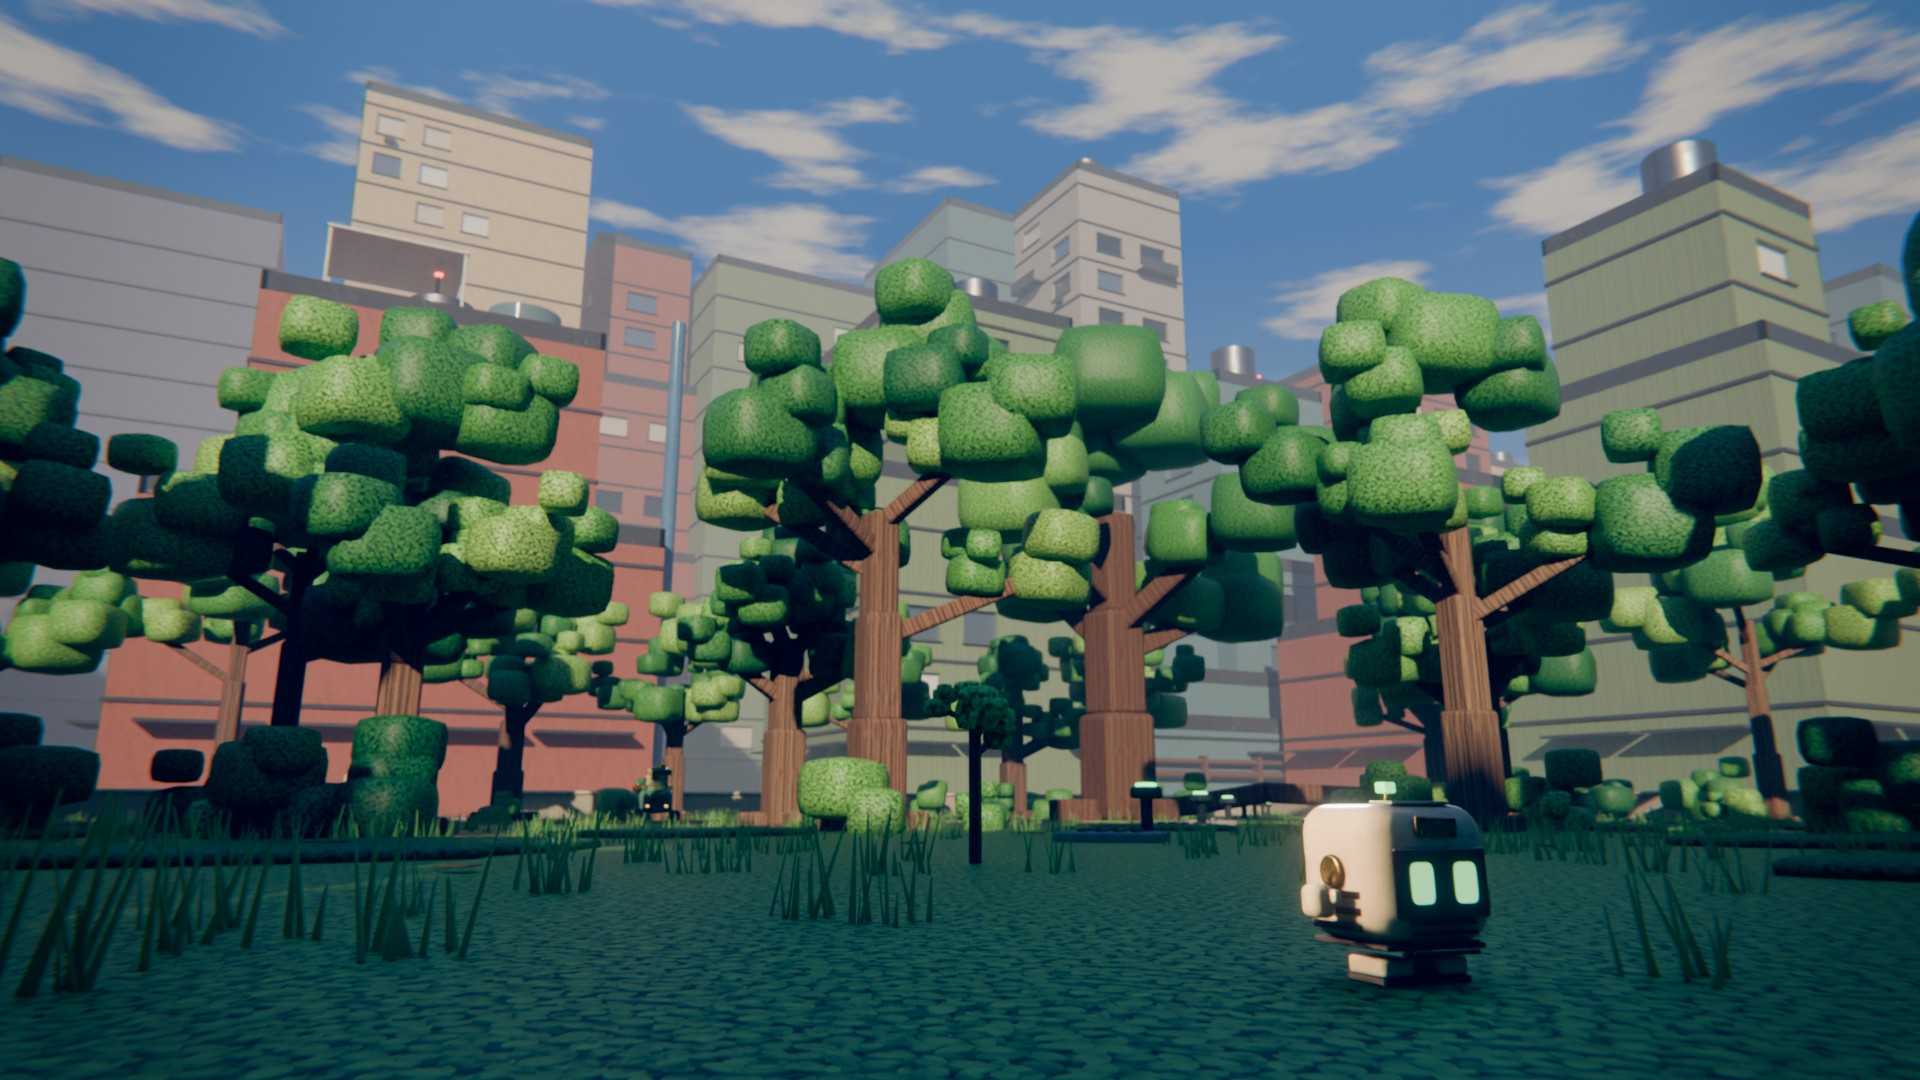
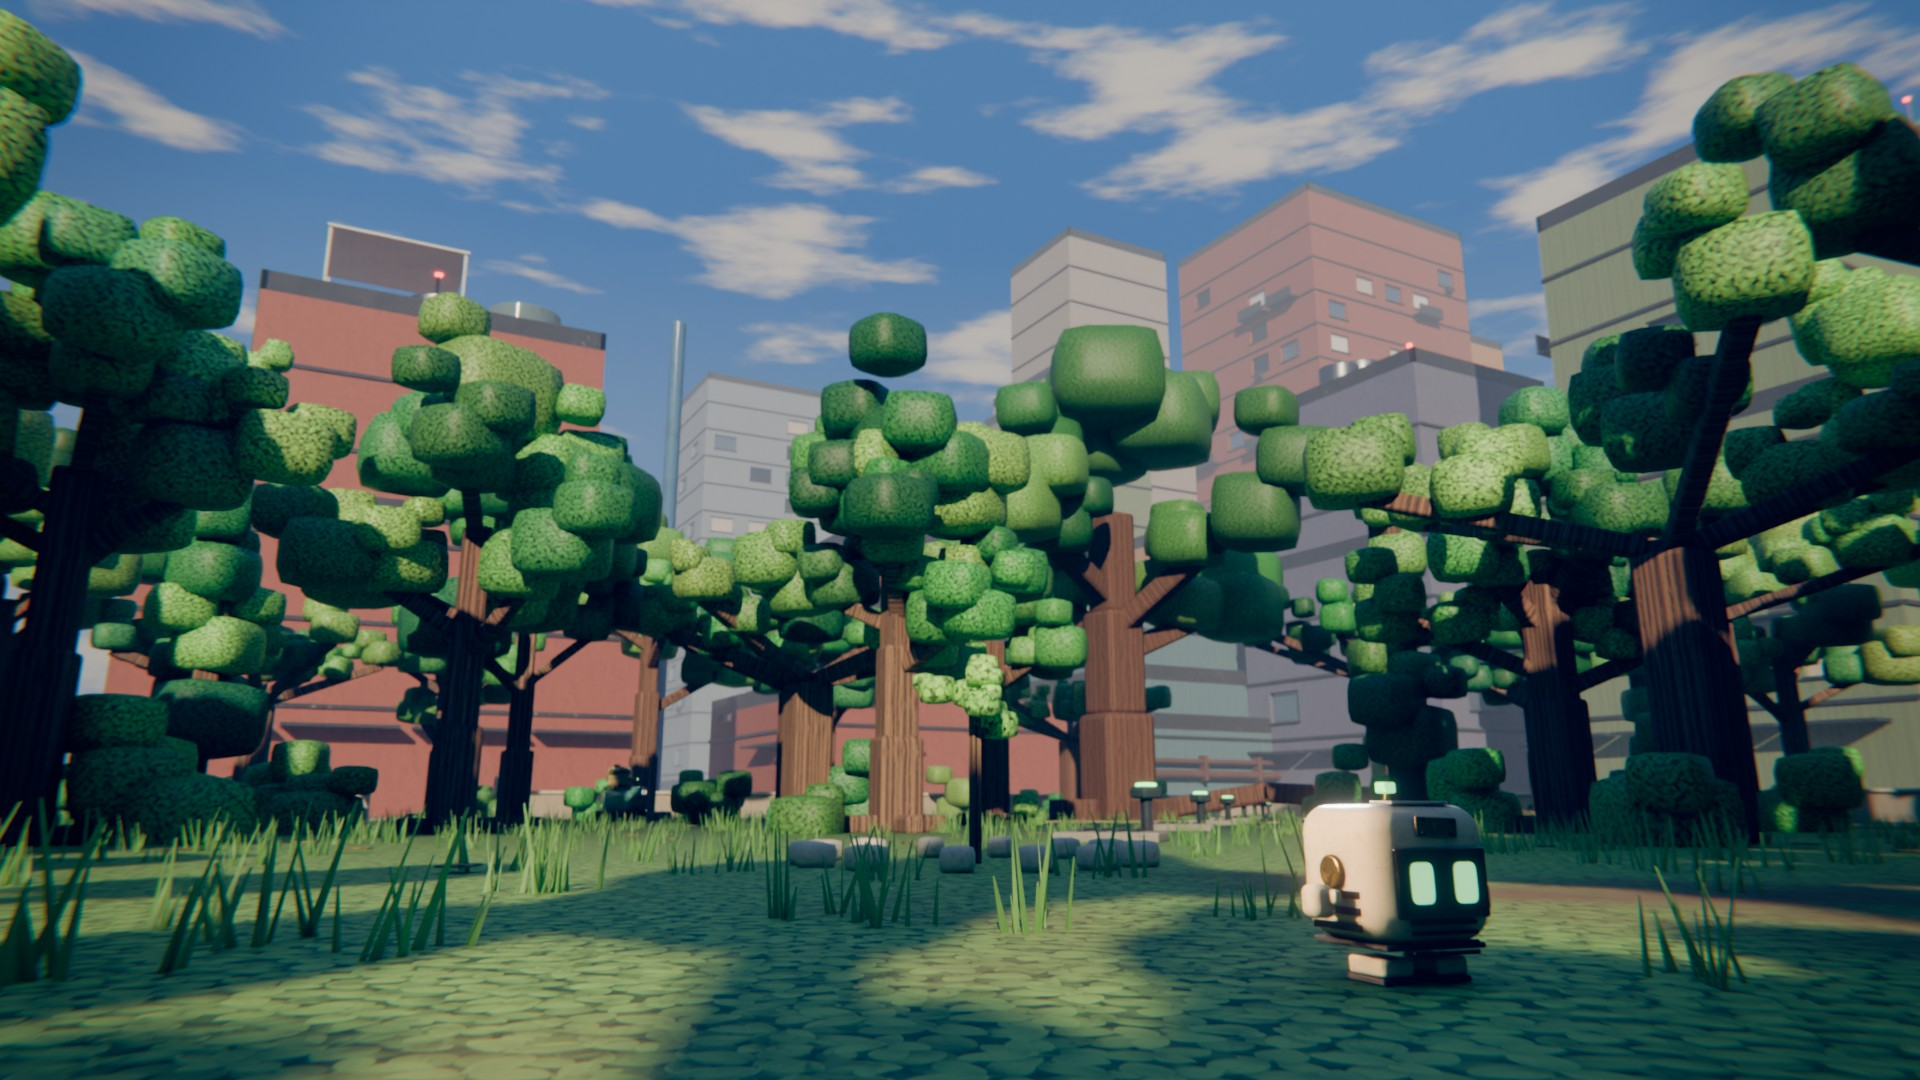
Old Grove polish: turf, tree shapes, sapling ring, crew pipe, S26 sunrise frame

diff --git a/blender/plants.py b/blender/plants.py
@@ -88,6 +88,10 @@ def leaf_mat(shade, ctrl):
     mid = cr.elements.new(0.35)
     mid.color = materials.hex_rgb(DRY)
     base = texmat._mul(g, ramp.outputs["Color"], det)
+    rnd_o = g.node("ShaderNodeObjectInfo").outputs["Random"]
+    base = texmat._mul(g, base, g.math("ADD", 0.82, g.math("MULTIPLY", rnd_o, 0.36)))
+    hsv = g.node("ShaderNodeHueSaturation", Color=base, Hue=g.math("ADD", 0.48, g.math("MULTIPLY", rnd_o, 0.05)))
+    base = hsv.outputs["Color"]
     g.set(bsdf.inputs["Base Color"], base)
     g.set(bsdf.inputs["Roughness"], g.math("ADD", 0.45, g.math("MULTIPLY", g.math("SUBTRACT", 1.0, w), 0.35)))
     bsdf.inputs["Subsurface Weight"].default_value = 0.25
@@ -96,6 +100,38 @@ def leaf_mat(shade, ctrl):
     bsdf.inputs["Coat Weight"].default_value = 0.0
     nm = g.node("ShaderNodeNormalMap", Color=texmat._img(g, "leaves", "normal", co, True).outputs["Color"],
                 Strength=0.8)
+    g.set(bsdf.inputs["Normal"], nm.outputs[0])
+    return world._haze(m)
+
+
+def turf_mat(ctrl, shade="#86ad56", soil="#8a7350"):
+    """Ground: clover-like ground cover with bare soil patches; dries to straw and dust with the water."""
+    name = f"p_turf_{ctrl.name}"
+    if name in bpy.data.materials:
+        return bpy.data.materials[name]
+    m = bpy.data.materials.new(name)
+    m.use_nodes = True
+    g = materials.G(m)
+    bsdf = next(n for n in g.n if n.type == "BSDF_PRINCIPLED")
+    co = texmat._uv(g, 1.4)
+    col = texmat._img(g, "leaves", "color", co).outputs["Color"]
+    det = texmat._detail(g, col, "leaves", 1.6)
+    w = _water_node(g, ctrl)
+    ramp = g.node("ShaderNodeValToRGB", Fac=w)
+    cr = ramp.color_ramp
+    cr.elements[0].position, cr.elements[0].color = 0.0, materials.hex_rgb("#a08a58")
+    cr.elements[1].position, cr.elements[1].color = 0.75, materials.hex_rgb(shade)
+    green = texmat._mul(g, ramp.outputs["Color"], det)
+    pos = g.node("ShaderNodeTexCoord").outputs["Object"]
+    nz = g.node("ShaderNodeTexNoise", Vector=pos, Scale=0.09, Detail=5.0, Roughness=0.6).outputs["Fac"]
+    patch = g.ramp(nz, 0.56, 0.66)
+    sco = texmat._uv(g, 2.0, (3.1, 7.7))
+    scol = texmat._img(g, "concrete", "color", sco).outputs["Color"]
+    dirt = texmat._mul(g, materials.hex_rgb(soil), texmat._detail(g, scol, "concrete", 3.0))
+    g.set(bsdf.inputs["Base Color"], g.mix(patch, green, dirt))
+    g.set(bsdf.inputs["Roughness"], g.mixf(patch, 0.6, 0.92))
+    nm = g.node("ShaderNodeNormalMap", Color=texmat._img(g, "leaves", "normal", co, True).outputs["Color"],
+                Strength=0.5)
     g.set(bsdf.inputs["Normal"], nm.outputs[0])
     return world._haze(m)
 
@@ -256,6 +292,45 @@ def grass_mat(ctrl):
     return world._haze(m)
 
 
+def column(coll, rnd, x, y, ctrl, height=9.0, girth=0.4, bark="#7a5a42", shades=None):
+    """A tall narrow tree: short trunk, clusters stacked up a central stem, getting smaller toward the top."""
+    shades = shades or GREENS
+    bm = bark_mat(bark)
+    _box(coll, "trunk", (girth, girth, height * 0.85), (x, y, height * 0.425), bm, girth * 0.12)
+    n = 6
+    for k in range(n):
+        t = k / (n - 1)
+        z = height * (0.22 + 0.7 * t)
+        size = height * 0.2 * (1.0 - 0.55 * t)
+        a = rnd.uniform(0, 6.28)
+        _cluster(coll, rnd, ctrl, (x + math.cos(a) * 0.15, y + math.sin(a) * 0.15, z), size,
+                 (math.cos(a) * 0.3, math.sin(a) * 0.3), 0.3 + 0.7 * t, rnd.choice(shades))
+    return height
+
+
+def wide(coll, rnd, x, y, ctrl, height=7.0, girth=0.6, bark="#6e5444", shades=None):
+    """An umbrella tree: a trunk that forks into long low branches, a broad flat crown of clusters."""
+    shades = shades or GREENS
+    bm = bark_mat(bark)
+    th = height * 0.45
+    _box(coll, "trunk", (girth, girth, th), (x, y, th / 2), bm, girth * 0.12)
+    nb = rnd.randint(5, 7)
+    for b in range(nb):
+        ang = b * math.tau / nb + rnd.uniform(-0.25, 0.25)
+        L = height * rnd.uniform(0.45, 0.6)
+        lift = rnd.uniform(0.25, 0.42)
+        dx, dy, dz = math.cos(ang) * math.cos(lift), math.sin(ang) * math.cos(lift), math.sin(lift)
+        bw = girth * 0.34
+        br = _box(coll, "branch", (L, bw, bw), (x + dx * L / 2, y + dy * L / 2, th + dz * L / 2), bm, bw * 0.15)
+        br.rotation_euler = (0, -lift, ang)
+        for f, k in ((1.0, 1.0), (0.6, 0.85)):
+            tip = (x + dx * L * f, y + dy * L * f, th + dz * L * f + height * 0.06)
+            _cluster(coll, rnd, ctrl, tip, height * 0.17 * k, (dx, dy), min(1.0, tip[2] / height),
+                     rnd.choice(shades))
+    _cluster(coll, rnd, ctrl, (x, y, th + height * 0.22), height * 0.22, (0.0, 0.0), 1.0, rnd.choice(shades))
+    return height
+
+
 def tree(coll, rnd, x, y, ctrl, height=9.0, girth=0.55, bark="#7a5a42", shades=None):
     """A box-trunk tree: a tapering trunk, 4-6 angled branches with clusters at the tip and along the way, and a
     full crown on top. Returns the crown height."""
@@ -332,9 +407,16 @@ def grass(coll, rnd, ctrl, points, blades=14, name="grass"):
     return ob
 
 
-def sapling(coll, rnd, x, y, ctrl, height=1.1):
-    """The small tree at the centre of the Grove: roughly Tiny's equal (Tiny is 0.35 m, the sapling about 1 m)."""
+def sapling(coll, rnd, x, y, ctrl, height=1.25):
+    """The small tree at the centre of the Grove: roughly Tiny's equal (Tiny is 0.35 m, the sapling about 1.2 m),
+    in a ring of pale stones so it reads as somebody's."""
     bm = bark_mat("#8a6a4c")
+    stone = world.tex_mat("sapling_stone", "concrete", "#d8d0bc", tile=0.6, rough=0.8)
+    ring = []
+    for k in range(14):
+        a = k * math.tau / 14 + rnd.uniform(-0.08, 0.08)
+        ring.append(((math.cos(a) * 0.95, math.sin(a) * 0.95, 0.06), (0.22, 0.17, 0.13), a + rnd.uniform(-0.3, 0.3)))
+    _merged("sapling_stones", coll, stone, ring, (x, y, 0.0))
     _box(coll, "sapling_stem", (0.06, 0.06, height * 0.75), (x, y, height * 0.375), bm, 0.01)
     for k, (ang, z) in enumerate(((0.4, 0.55), (2.6, 0.7), (4.4, 0.62))):
         L = 0.22
@@ -342,8 +424,8 @@ def sapling(coll, rnd, x, y, ctrl, height=1.1):
                   (x + math.cos(ang) * L / 2, y + math.sin(ang) * L / 2, height * z + 0.06), bm, 0.006)
         br.rotation_euler = (0, -0.5, ang)
         tip = (x + math.cos(ang) * L, y + math.sin(ang) * L, height * z + 0.12)
-        _cluster(coll, rnd, ctrl, tip, 0.2, (math.cos(ang), math.sin(ang)), 0.5, "#6fb84e")
-    _cluster(coll, rnd, ctrl, (x, y, height * 0.78), 0.26, (0.0, 0.0), 0.8, "#7cc456")
+        _cluster(coll, rnd, ctrl, tip, 0.22, (math.cos(ang), math.sin(ang)), 0.5, "#8fd45e")
+    _cluster(coll, rnd, ctrl, (x, y, height * 0.78), 0.3, (0.0, 0.0), 0.8, "#9ade62")
 
 
 def weed(coll, rnd, x, y, ctrl):

diff --git a/blender/grove.py b/blender/grove.py
@@ -37,7 +37,7 @@ def _on_line(x, y, pad):
 
 def _ground(coll, rnd, ctrl):
     # soil and moss over the whole clearing, a leafy ground cover in patches, the worn loop path
-    turf = plants.leaf_mat("#6a9a48", ctrl)
+    turf = plants.turf_mat(ctrl)
     moss = plants.leaf_mat("#3f7232", ctrl)
     path = world.tex_mat("loop_path", "concrete", "#a08c6a", tile=2.0, rough=0.95, bump=0.3)
     world.box(coll, "grove_turf", (2 * HALF, 2 * HALF, 0.2), (0, 0, -0.1), turf, 0)
@@ -50,7 +50,7 @@ def _ground(coll, rnd, ctrl):
             continue
         s = rnd.uniform(1.2, 3.2)
         cover.append(((x, y, 0.03), (s, s * rnd.uniform(0.6, 1.0), 0.12), rnd.uniform(0, 1.6)))
-    plants._merged("groundcover", coll, moss, cover, (0, 0, 0))
+    # (flat ground-cover slabs read as puddles from low angles; the turf's soil patches do this job now)
     # the loop: segments of a worn ring, slightly sunk
     n = 72
     for k in range(n):
@@ -111,6 +111,31 @@ def _water_line(coll, ctrl):
         world.box(coll, "gauge_lamp", (0.16, 0.16, 0.05), (x + 0.42, y, 0.53), gauge, 0.02)
 
 
+def _crew_pipe(coll):
+    """The pipe the crew lays in S21-S24: on short supports along the water line from the north-east gate to the
+    sapling, with the bend that rises over the great root instead of cutting it."""
+    pm = world.mat("crew_pipe", "painted_metal", "#4f7fa8", wear=0.45, dirt=0.6, tile=1.0)
+    sup = world.mat("pipe_support", "painted_metal", "#3c4248", wear=0.5, dirt=0.7, tile=1.0)
+    d = 1 / math.sqrt(2)
+    # (distance along the line from the gate, height): the line meets the root about 18 m from the gate
+    prof = [(-3.0, 0.35), (16.0, 0.35), (17.6, 1.25), (20.4, 1.25), (22.0, 0.35), (40.8, 0.35)]
+    ax, ay = PIPE_LINE[0]
+    for (s0, z0), (s1, z1) in zip(prof, prof[1:]):
+        x0, y0 = ax - s0 * d, ay - s0 * d
+        x1, y1 = ax - s1 * d, ay - s1 * d
+        L = math.dist((x0, y0, z0), (x1, y1, z1))
+        seg = world.box(coll, "crew_pipe", (L + 0.12, 0.34, 0.34), ((x0 + x1) / 2, (y0 + y1) / 2, (z0 + z1) / 2),
+                        pm, 0.05, shape="cylinder_x")
+        seg.rotation_euler = (0, -math.atan2(z1 - z0, math.hypot(x1 - x0, y1 - y0)), math.atan2(y1 - y0, x1 - x0))
+        world.box(coll, "pipe_collar", (0.18, 0.44, 0.44), (x1, y1, z1), sup, 0.03, shape="cylinder_x",
+                  rot=math.atan2(y1 - y0, x1 - x0))
+    for s_ in range(0, 41, 3):
+        if 15.5 < s_ < 22.5:
+            continue
+        x, y = ax - s_ * d, ay - s_ * d
+        world.box(coll, "pipe_support", (0.5, 0.12, 0.2), (x, y, 0.1), sup, 0.02, rot=math.pi / 4)
+
+
 def _great_tree(coll, rnd, ctrl):
     """The great old tree on the north-east side; one big root arches across the water line."""
     gx, gy = GREAT_TREE
@@ -127,7 +152,7 @@ def _great_tree(coll, rnd, ctrl):
                             math.atan2(b[1] - a[1], b[0] - a[0]))
 
 
-def _trees(coll, rnd, ctrl):
+def _trees(coll, rnd, ctrl, clear=()):
     spots = []
 
     def free(x, y, r):
@@ -141,6 +166,8 @@ def _trees(coll, rnd, ctrl):
             return False
         if max(abs(x), abs(y)) > HALF - 1.8 - r:
             return False
+        if any(math.hypot(x - cx, y - cy) < cr + r * 0.6 for (cx, cy, cr) in clear):
+            return False
         return all(math.hypot(x - sx, y - sy) > (r + sr) * 0.8 + 1.0 for (sx, sy, sr) in spots)
 
     tries = 0
@@ -151,8 +178,14 @@ def _trees(coll, rnd, ctrl):
         r = h * 0.28
         if free(x, y, r):
             spots.append((x, y, r))
-            plants.tree(coll, rnd, x, y, ctrl, height=h, girth=rnd.uniform(0.45, 0.75),
-                        bark=rnd.choice(["#7a5a42", "#6e5444", "#82654a"]))
+            kind = rnd.random()
+            bark = rnd.choice(["#7a5a42", "#6e5444", "#82654a"])
+            if kind < 0.18:
+                plants.column(coll, rnd, x, y, ctrl, height=h * 1.1, girth=rnd.uniform(0.35, 0.5), bark=bark)
+            elif kind < 0.36:
+                plants.wide(coll, rnd, x, y, ctrl, height=h * 0.8, girth=rnd.uniform(0.5, 0.75), bark=bark)
+            else:
+                plants.tree(coll, rnd, x, y, ctrl, height=h, girth=rnd.uniform(0.45, 0.75), bark=bark)
     return spots
 
 
@@ -173,7 +206,7 @@ def _undergrowth(coll, rnd, ctrl, spots):
     pts = []
     while len(pts) < 2600:
         x, y = rnd.uniform(-HALF + 0.6, HALF - 0.6), rnd.uniform(-HALF + 0.6, HALF - 0.6)
-        if abs(math.hypot(x, y) - LOOP_R) < 1.1 or _on_line(x, y, 0.7):
+        if abs(math.hypot(x, y) - LOOP_R) < 1.1 or _on_line(x, y, 0.7) or math.hypot(x, y) < 1.15:
             continue
         pts.append((x, y, rnd.uniform(0.7, 1.4)))
     plants.grass(coll, rnd, ctrl, pts, blades=10)
@@ -267,7 +300,7 @@ def _city(coll, rnd):
         world.box(coll, "barrier", (0.5, 2.6, 1.0), (x_end - 0.8, py + 0.5, 3.3), barrier, 0.05)
 
 
-def build(sc, tod="morning", water=1.0, seed=11, city=True):
+def build(sc, tod="morning", water=1.0, seed=11, city=True, pipe=False, clear=()):
     world.CFG = world.TOD[tod]
     world.HAZE = world.CFG["haze"]
     rnd = random.Random(seed)
@@ -279,7 +312,9 @@ def build(sc, tod="morning", water=1.0, seed=11, city=True):
     _wall(coll)
     _water_line(coll, ctrl)
     _great_tree(coll, rnd, ctrl)
-    spots = _trees(coll, rnd, ctrl)
+    if pipe:
+        _crew_pipe(coll)
+    spots = _trees(coll, rnd, ctrl, clear)
     plants.sapling(coll, rnd, SAPLING[0], SAPLING[1], ctrl)
     _undergrowth(coll, rnd, ctrl, spots)
     if city:

diff --git a/blender/setshot.py b/blender/setshot.py
@@ -41,20 +41,28 @@ OUT.mkdir(parents=True, exist_ok=True)
 RES = tuple(int(v) for v in opts.get("res", "1920x1080").split("x"))
 SAMPLES = int(opts.get("samples", 64))
 
-# camera: (location, target, lens mm, f-stop or None); robots: (id, x, y, yaw toward "cam" + offset deg, or deg)
+# camera: (location, target, lens mm, f-stop or None)
+# robots: (id, x, y, yaw) with yaw = degrees, or ("cam", offset) to face the camera then turn by the offset;
+#         x = "loop" puts the robot on Mossback's loop at the first angle (from y degrees, stepping 6) where the
+#         camera can see it
+# clear: (x, y, r) spots kept free of trees, so a camera or a staging spot is not inside a trunk
 SHOTS = {
     # S02 "Mossback's Loop": low at Tiny's height, trees towering like friendly giants, the sapling Tiny's equal
-    "grove_s02_morning": dict(set="grove", tod="morning", water=0.85, haze=0.0015,
-                              cam=((-3.4, -6.0, 0.3), (1.0, 2.0, 2.4), 22, 4.0),
-                              robots=[("tiny", -1.6, -4.4, ("cam", 40)), ("mossback", 3.8, 21.7, 170)]),
+    "grove_s02_morning": dict(set="grove", tod="morning", water=0.85, haze=0.0012,
+                              cam=((-3.4, -6.0, 0.3), (1.0, 2.0, 2.4), 22, 4.0), clear=[(-3.4, -6.0, 3.0)],
+                              robots=[("tiny", -1.6, -4.4, ("cam", 40)), ("mossback", "loop", 70, ("cam", 75))]),
     # S07 "Amber Lights": the same master, days later, the drought showing
-    "grove_s07_drought": dict(set="grove", tod="morning", water=0.12, haze=0.0025,
-                              cam=((-3.4, -6.0, 0.3), (1.0, 2.0, 2.4), 22, 4.0),
+    "grove_s07_drought": dict(set="grove", tod="morning", water=0.12, haze=0.002,
+                              cam=((-3.4, -6.0, 0.3), (1.0, 2.0, 2.4), 22, 4.0), clear=[(-3.4, -6.0, 3.0)],
                               robots=[("tiny", -1.6, -4.4, ("cam", 40))]),
-    # S31 "Check... No Harm. Go.": wide on the fully green Grove, gauges green, blossoms open, golden light
-    "grove_s31_golden": dict(set="grove", tod="golden_morning", water=1.0, haze=0.0018,
-                             cam=((-4.0, -47.0, 10.5), (3.0, 4.0, 1.5), 26, None),
-                             robots=[("tiny", -0.9, -1.5, ("cam", 10)), ("mossback", -15.6, -15.6, -45)]),
+    # S26 "Sunrise": low from the bent pipe as the sunrise comes down Grove Boulevard; the gauges turning green
+    "grove_s26_sunrise": dict(set="grove", tod="sunrise", water=0.62, haze=0.0022, pipe=True,
+                              cam=((9.6, 18.0, 0.6), (30.0, 6.0, 2.2), 24, 5.6), clear=[(9.6, 18.0, 3.0)],
+                              robots=[("tiny", 12.4, 16.2, ("cam", -40))]),
+    # S31 "Check... No Harm. Go.": wide on the fully green Grove: sapling, gauges, the bent pipe and blossom
+    "grove_s31_golden": dict(set="grove", tod="golden_morning", water=1.0, haze=0.0007, pipe=True,
+                             cam=((-13.0, -1.0, 3.4), (12.0, 10.0, 1.2), 24, None), clear=[(-13.0, -1.0, 5.0)],
+                             robots=[("tiny", 0.8, -1.2, ("cam", 20)), ("mossback", "loop", 150, ("cam", 70))]),
 }
 
 
@@ -117,13 +125,37 @@ def place(sc, rid, x, y, yaw, cam):
     return root, spec
 
 
+def seen(sc, cam, point):
+    """True when the point is inside the frame and nothing stands between it and the camera."""
+    from bpy_extras.object_utils import world_to_camera_view
+    v = world_to_camera_view(sc, cam, Vector(point))
+    if not (0.08 < v.x < 0.92 and 0.05 < v.y < 0.95 and v.z > 0):
+        return False
+    dg = bpy.context.evaluated_depsgraph_get()
+    d = Vector(point) - cam.location
+    hit, loc, *_ = sc.ray_cast(dg, cam.location, d.normalized(), distance=d.length - 0.6)
+    return not hit
+
+
 def shoot(name):
     sh = SHOTS[name]
     sc = setup()
-    parts = grove.build(sc, tod=sh["tod"], water=sh["water"])
+    parts = grove.build(sc, tod=sh["tod"], water=sh["water"], pipe=sh.get("pipe", False),
+                       clear=sh.get("clear", []))
     cam = camera(sc, *sh["cam"])
+    bpy.context.view_layer.update()
     roots = []
     for (rid, x, y, yaw) in sh["robots"]:
+        if x == "loop":
+            for k in range(60):
+                a = math.radians(y + 6 * k)
+                px, py = math.cos(a) * grove.LOOP_R, math.sin(a) * grove.LOOP_R
+                far = (Vector((px, py, 0)) - cam.location).length > 7.0
+                if far and seen(sc, cam, (px, py, 0.8)) and seen(sc, cam, (px, py, 0.25)):
+                    break
+            else:
+                print("no clear view of", rid, "on the loop", flush=True)
+            x, y = px, py
         roots.append(place(sc, rid, x, y, yaw, cam))
     if sh["cam"][3]:
         # focus on the first robot

diff --git a/blender/world.py b/blender/world.py
@@ -32,7 +32,7 @@ TOD = {
                     sun=(9.0, (1.0, 0.84, 0.62), 24, -32), haze=(0.78, 0.84, 0.95), windows=(0.0, 0.0), lamps=0,
                     wet=False, rig=0.25, haze_amount=0.35, sun_angle=0.8),
     "sunrise": dict(sky=((1.0, 0.55, 0.32), (0.55, 0.5, 0.62), (0.12, 0.2, 0.45)), sky_strength=0.9,
-                    sun=(6.0, (1.0, 0.6, 0.32), 6, 90), haze=(0.95, 0.7, 0.55), windows=(0.2, 0.6), lamps=0,
+                    sun=(7.0, (1.0, 0.6, 0.32), 16, 90), haze=(0.95, 0.7, 0.55), windows=(0.2, 0.6), lamps=0,
                     wet=False, rig=0.25, haze_amount=0.4, sun_angle=1.0),
     "golden_morning": dict(sky=((1.0, 0.82, 0.6), (0.5, 0.66, 0.92), (0.15, 0.32, 0.75)), sky_strength=1.1,
                            sun=(9.0, (1.0, 0.78, 0.5), 26, 72), haze=(0.95, 0.85, 0.72), windows=(0.0, 0.0),

diff --git a/docs/PROCESS.md b/docs/PROCESS.md
@@ -196,3 +196,8 @@ Bugs worth remembering:
   drivers move as a unit.
 - A low sun behind 30 m towers leaves the whole Grove in shadow. Golden morning now comes in higher from the east,
   and the sunrise runs straight down Grove Boulevard, the one long gap in the skyline.
+- **Polish pass** (same day): turf with soil patches instead of a flat leaf texture; per-cluster colour variation;
+  three tree shapes (round, column, umbrella); the sapling taller and brighter in a ring of pale stones; the crew's
+  pipe from S21 on, with the bend that rises over the great root; shots keep trees away from their camera, and
+  background robots are moved along Mossback's loop until a ray from the camera actually reaches them. New
+  frame: S26 sunrise. Flat ground-cover slabs were dropped because from Tiny's height they read as puddles.
